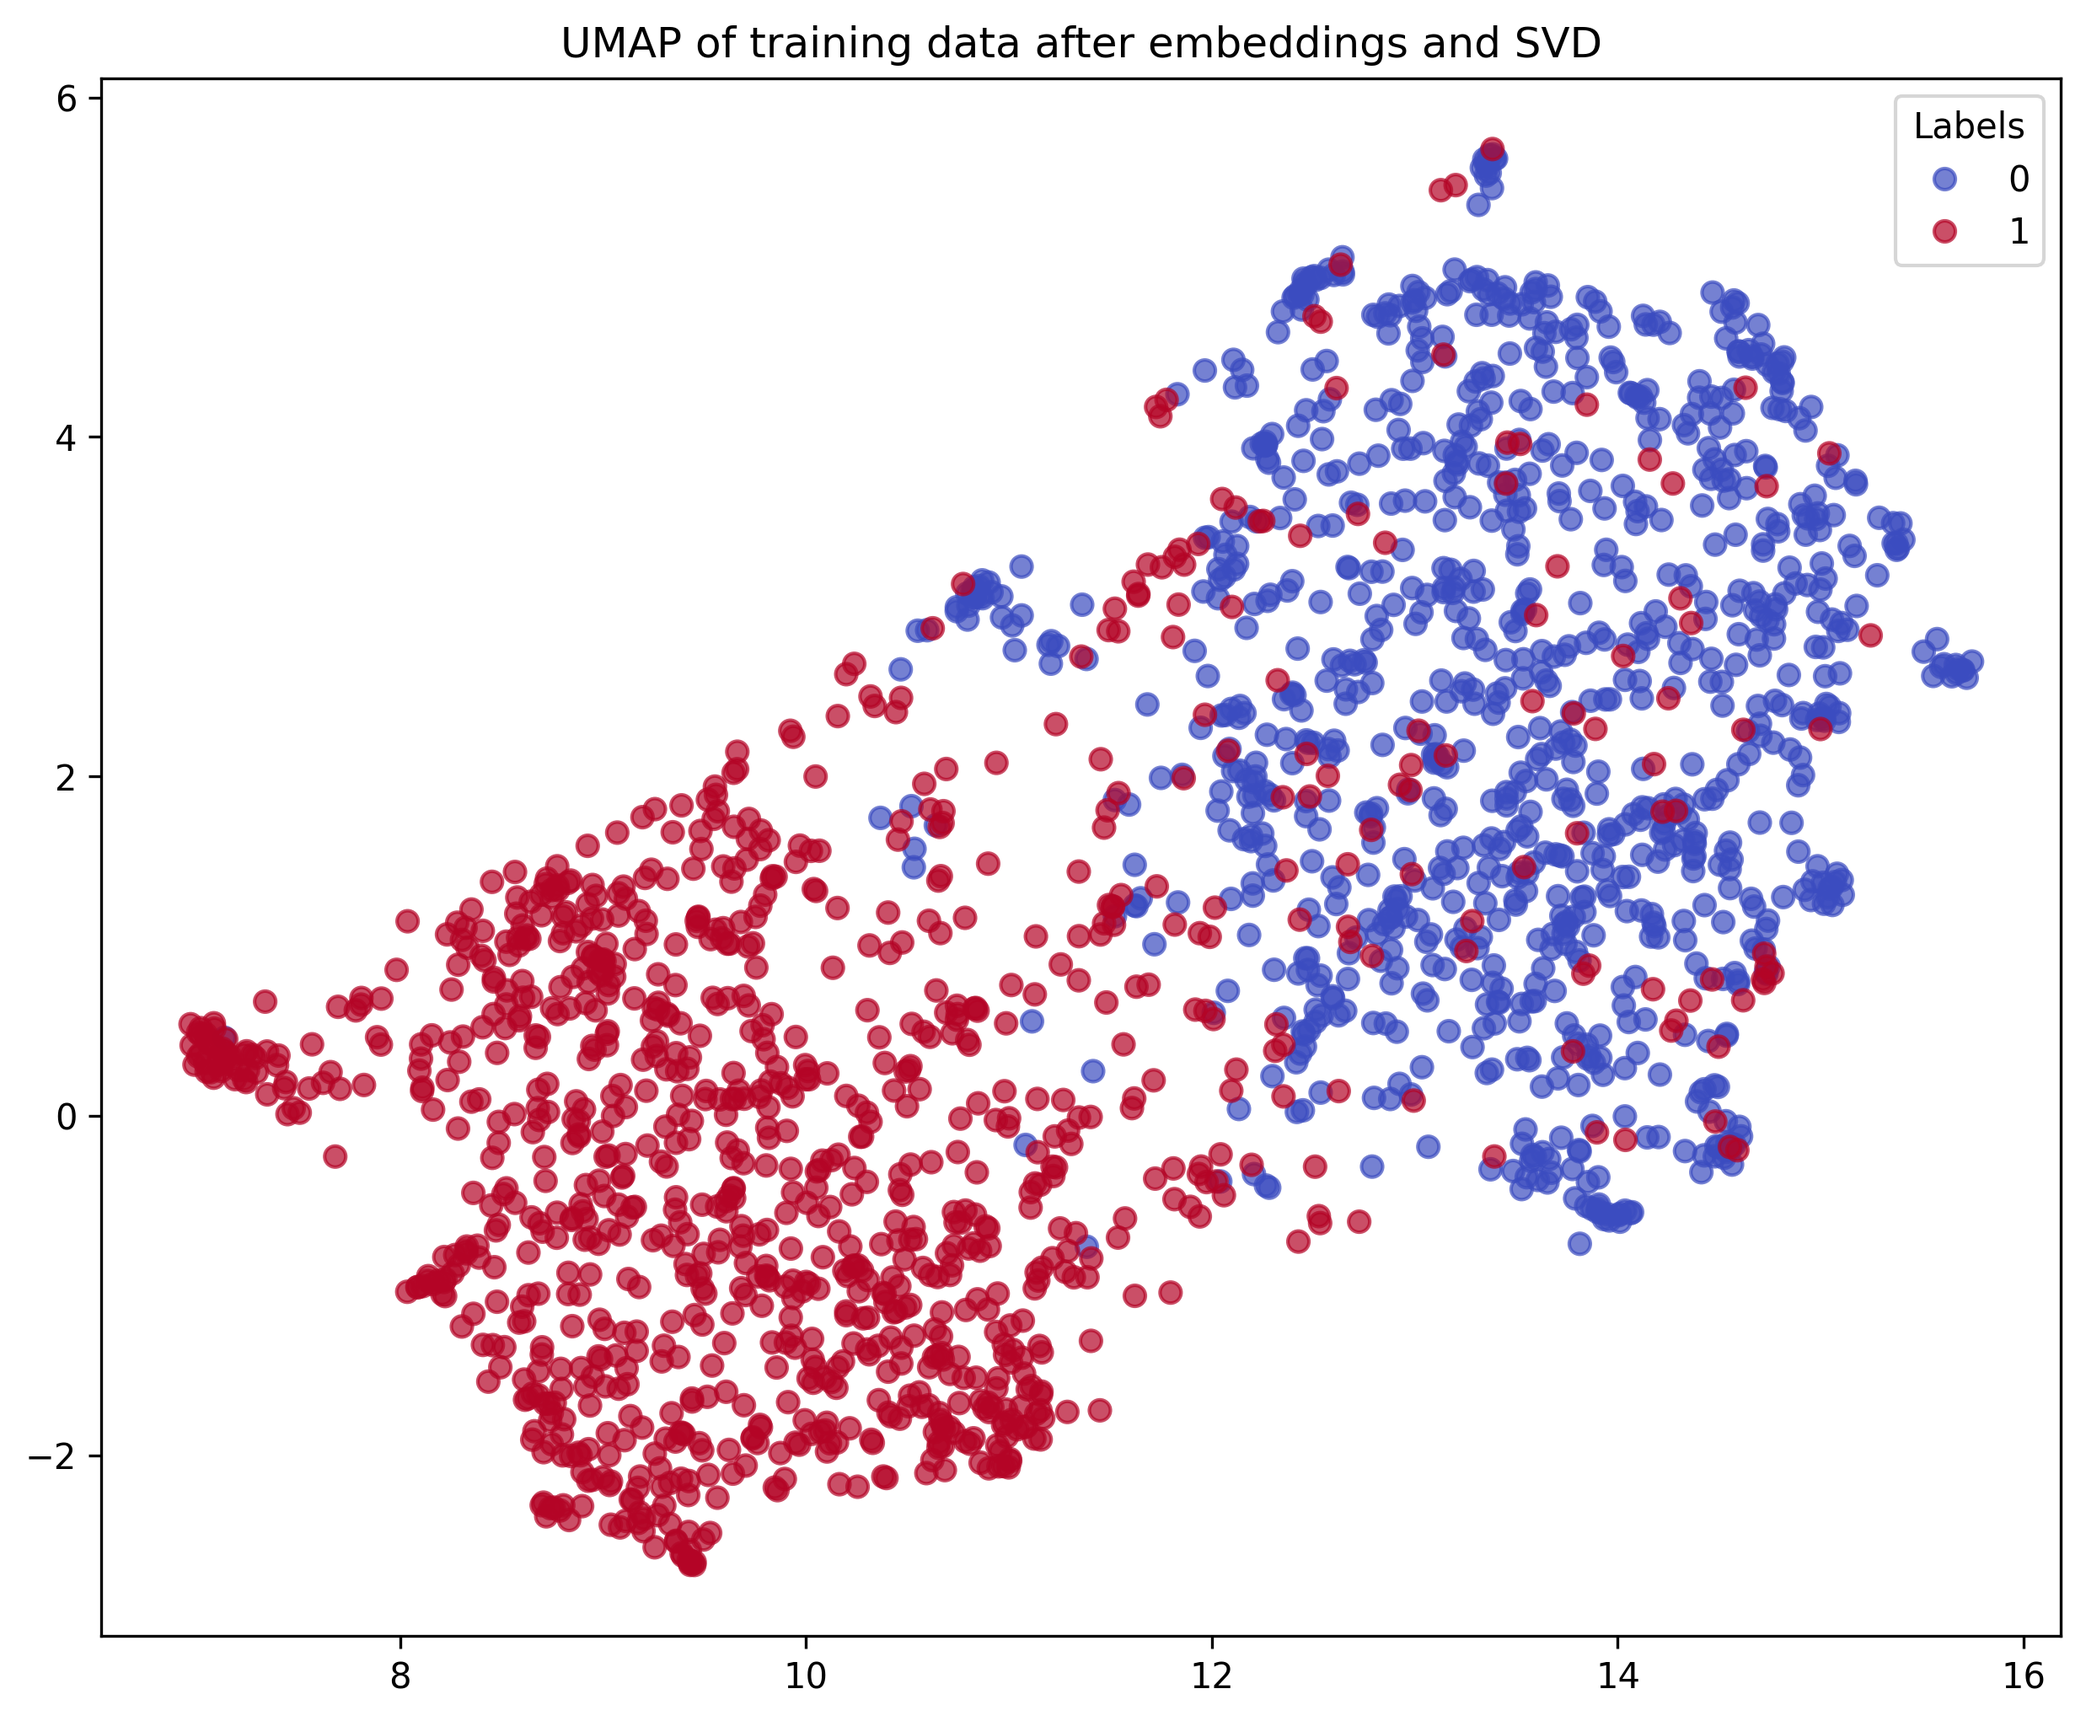
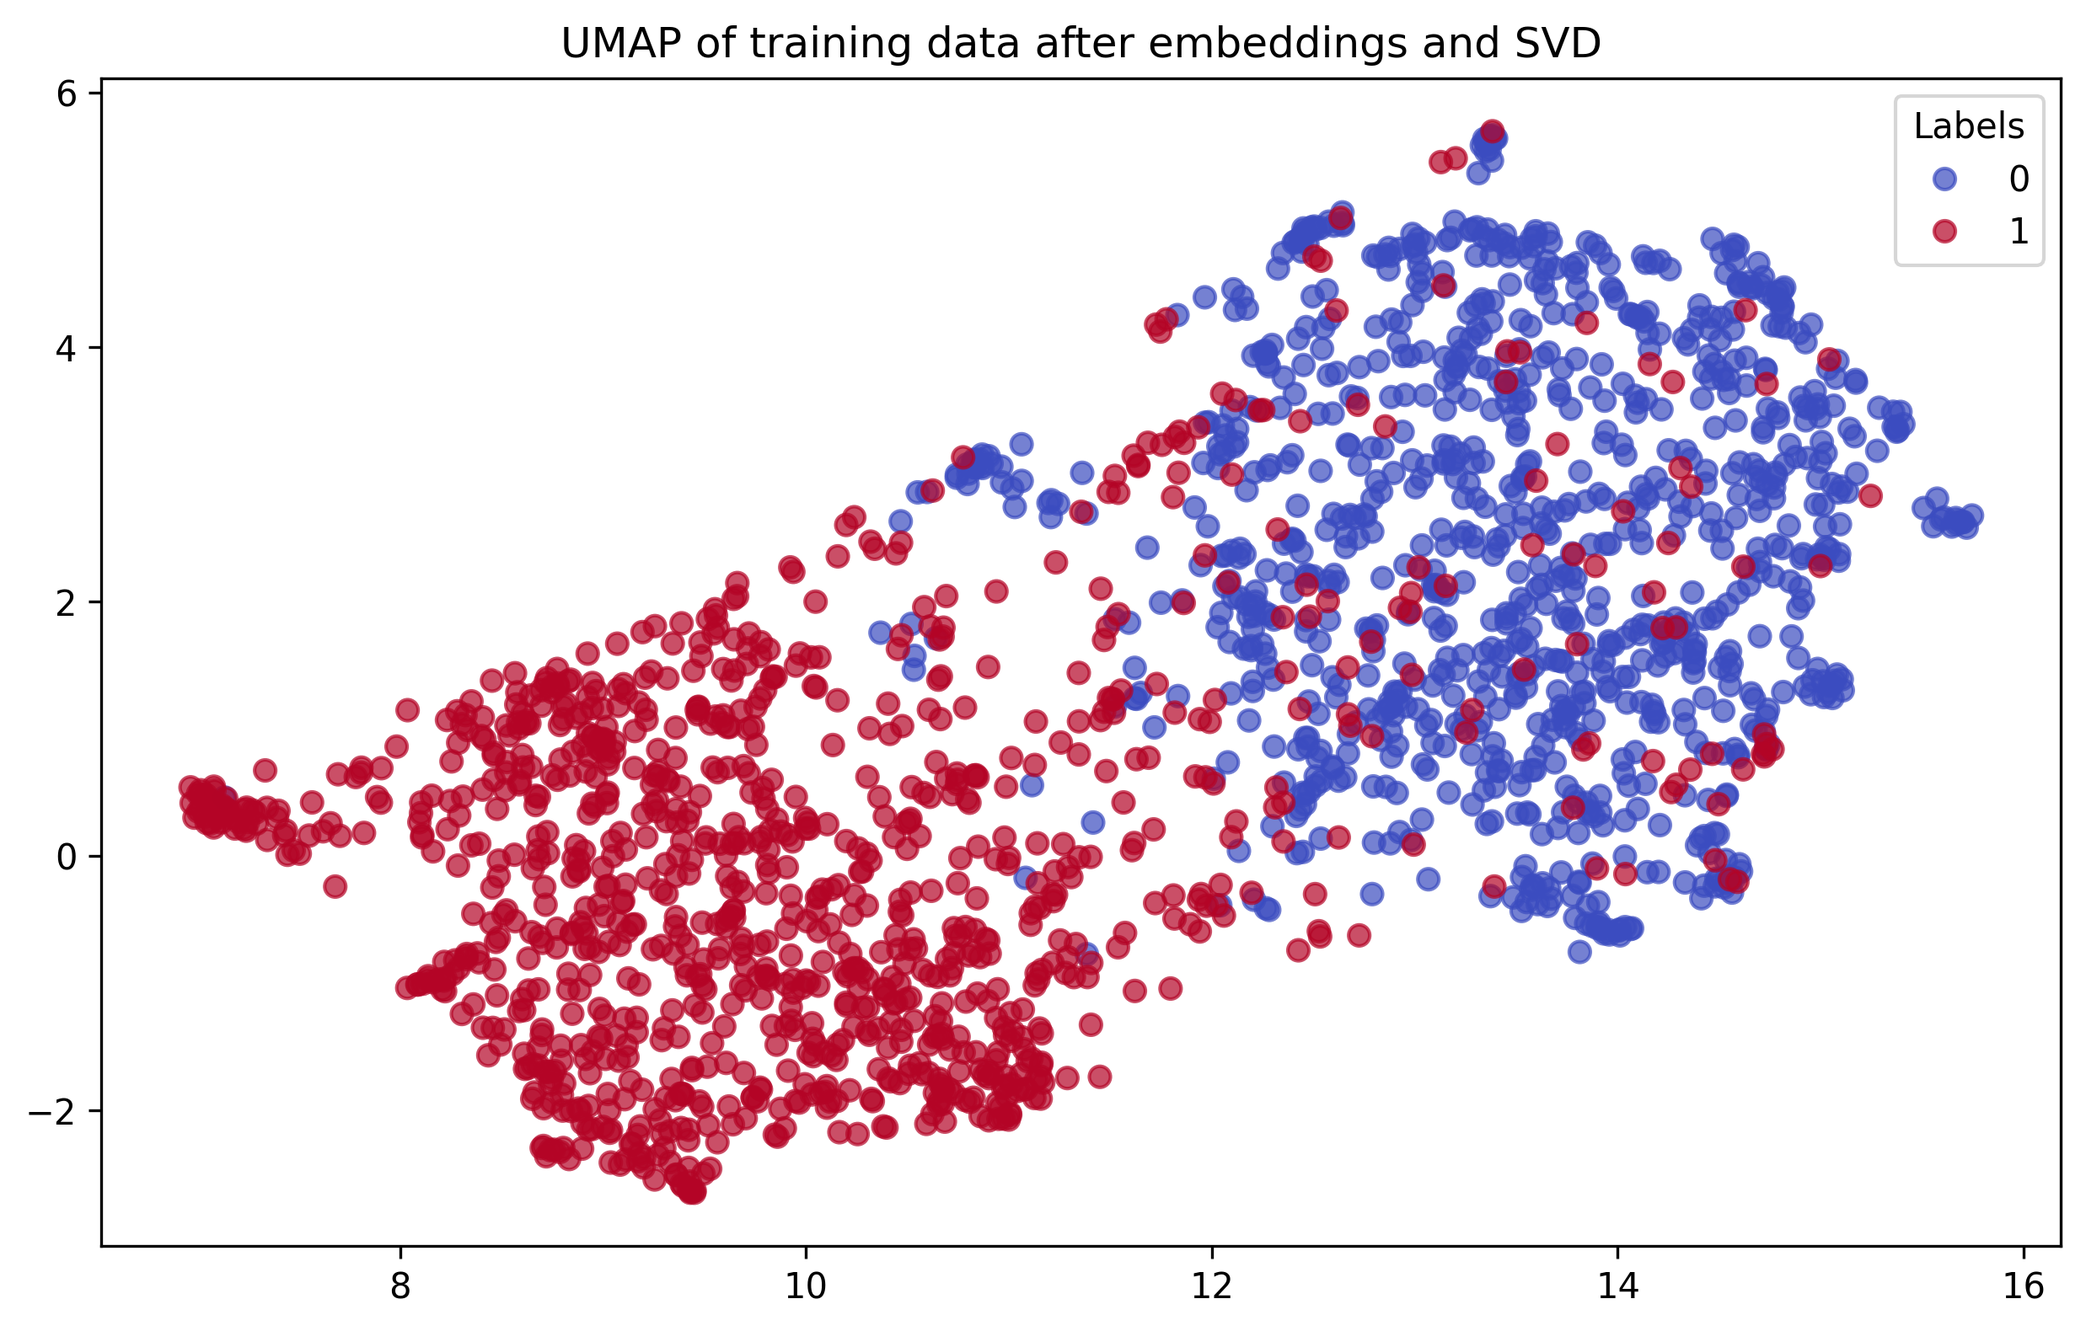
visualisations added in - tsne, umap, barchart, cosine similarity queries

Changed region(s): [[0.0311, 0.093, 0.9956, 0.9924], [0.0311, 0.0, 0.9956, 0.1861]]

diff --git a/src/visualise.py b/src/visualise.py
@@ -1,6 +1,9 @@
 from sklearn.manifold import TSNE
 import matplotlib.pyplot as plt
+from sklearn.metrics.pairwise import cosine_similarity
 import umap
+import numpy as np
+
 def visualise(X_pos_train_embed_align, X_neg_train_embed_align, X_pos_test_embed_align, X_neg_test_embed_align, X_pos_strings_train, X_pos_strings_test, X_neg_strings_train, X_neg_strings_test, Y_pos_class_train, Y_pos_class_test, Y_neg_class_train, Y_neg_class_test, X_concat_strings_train, X_concat_strings_test, Y_concat_class_train, Y_concat_class_test, X_pos_train_PCA, X_neg_train_PCA, X_pos_test_PCA, X_neg_test_PCA):
     #bins to look at how much data is in each and to look at balance
     #t-SNE
@@ -24,9 +27,42 @@ def UMAP_display(X, y, title):
     reducer = umap.UMAP(n_components=2, random_state=42)
     X_emb_2d = reducer.fit_transform(X)
 
-    plt.figure(figsize=(10, 8))
+    plt.figure(figsize=(10, 6))
     scatter = plt.scatter(X_emb_2d[:, 0], X_emb_2d[:, 1], c=y, cmap='coolwarm', alpha=0.7)
     plt.legend(*scatter.legend_elements(), title="Labels")
     plt.title(title)
     plt.savefig(f"data/visualisation/{title}.png", dpi=300, bbox_inches='tight')
     plt.show()
+
+def data_balance_display(Xtnp, Xtnn, Xtsp, Xtsn):
+    labels = ['Medical Query Train', 'Non-medical Query Train', 'Medical Query Test', 'Non-medical Query Test']
+    sizes = [len(Xtnp), len(Xtnn), len(Xtsp), len(Xtsn)]
+    plt.figure(figsize=(10, 6))
+    plt.bar(labels, sizes)
+    title = "Number of Samples Within Each Category to Show Data Balance"
+    plt.title(title)
+    plt.ylabel("Number of Samples")
+    plt.savefig(f"data/visualisation/{title}.png", dpi=300, bbox_inches='tight')
+    plt.show()
+
+
+
+def print_cosine_sim_demo(Xembed, Xstring, Yclass):
+    n_queries = 3
+    random_indices = np.random.choice(len(Xembed), size=n_queries, replace=False)
+
+    for query_idx in random_indices:
+        query_vec = Xembed[query_idx]
+
+        # Compute cosine similarity with all embeddings
+        sim_scores = cosine_similarity([query_vec], Xembed)[0]
+
+        # Get top 5 most similar sentences (excluding the query itself)
+        closest_idx = np.argsort(sim_scores)[-6:]  
+        closest_idx = closest_idx[closest_idx != query_idx]  # remove the query itself
+
+        # Print results
+        print(f"\nQuery sentence: {Xstring[query_idx]}")
+        print("Top similar sentences:")
+        for idx in closest_idx[::-1]:
+            print(f"- {Xstring[idx]} (label={Yclass[idx]}, similarity={sim_scores[idx]:.3f})")

diff --git a/src/main.py b/src/main.py
@@ -19,19 +19,26 @@ from explainability import lime_test, make_predict_fn
 from pgd_attack import pgd_attack_embedded, pgd_attack_embedded_hyperrectangles
 from perturbations import create_perturbations
 from hyperrectangles import load_hyperrectangles
-from visualise import tsne_display, UMAP_display
+from visualise import tsne_display, UMAP_display, data_balance_display, print_cosine_sim_demo
 import nltk
 nltk.download('punkt')
 nltk.download('averaged_perceptron_tagger_eng')
 import time
 
 X_pos_strings_train, Y_pos_class_train, X_pos_strings_test, Y_pos_class_test, X_neg_strings_train,  Y_neg_class_train, X_neg_strings_test, Y_neg_class_test = pre_process()
+
+data_balance_display(X_pos_strings_train, X_neg_strings_train, X_pos_strings_test, X_neg_strings_test)
+
 X_pos_train_embed_align, X_pos_test_embed_align, X_neg_train_embed_align, X_neg_test_embed_align, align_matrix= embed_and_align(X_pos_strings_train, X_neg_strings_train, X_pos_strings_test, X_neg_strings_test)
 
+Vis_X_train_string = np.concatenate((X_pos_strings_train, X_neg_strings_train), axis=0)
 Vis_X_train_embed_align = np.concatenate((X_pos_train_embed_align, X_neg_train_embed_align), axis=0)
 Vis_X_test_embed_align = np.concatenate((X_pos_test_embed_align, X_neg_test_embed_align), axis=0)
 Vis_Y_train = np.concatenate((Y_pos_class_train, Y_neg_class_train), axis=0)
 Vis_Y_test = np.concatenate((Y_pos_class_test, Y_neg_class_test), axis=0)
+
+print_cosine_sim_demo(Vis_X_train_embed_align, Vis_X_train_string, Vis_Y_train)
+
 tsne_title1 = "T-SNE of training data after embeddings and SVD"
 tsne_display(Vis_X_train_embed_align, Vis_Y_train, tsne_title1)
 umap_title1 = "UMAP of training data after embeddings and SVD"
@@ -46,9 +53,10 @@ tsne_display(Vis_X_train_PCA, Vis_Y_train, tsne_title2)
 umap_title2 = "UMAP of training data after PCA"
 UMAP_display(Vis_X_train_PCA, Vis_Y_train, umap_title2)
 
+
 get_model()
 model_base, X_base_train, X_base_test, Y_base_train, Y_base_test, train_base_dataset, test_base_dataset = train_base_model(X_pos_train_PCA, X_pos_test_PCA, X_neg_train_PCA, X_neg_test_PCA, Y_pos_class_train, Y_pos_class_test, Y_neg_class_train, Y_neg_class_test)
-tsne_display(X, y)
+
 
 #lets look at a few of these
 # print(X_base_test.shape)
